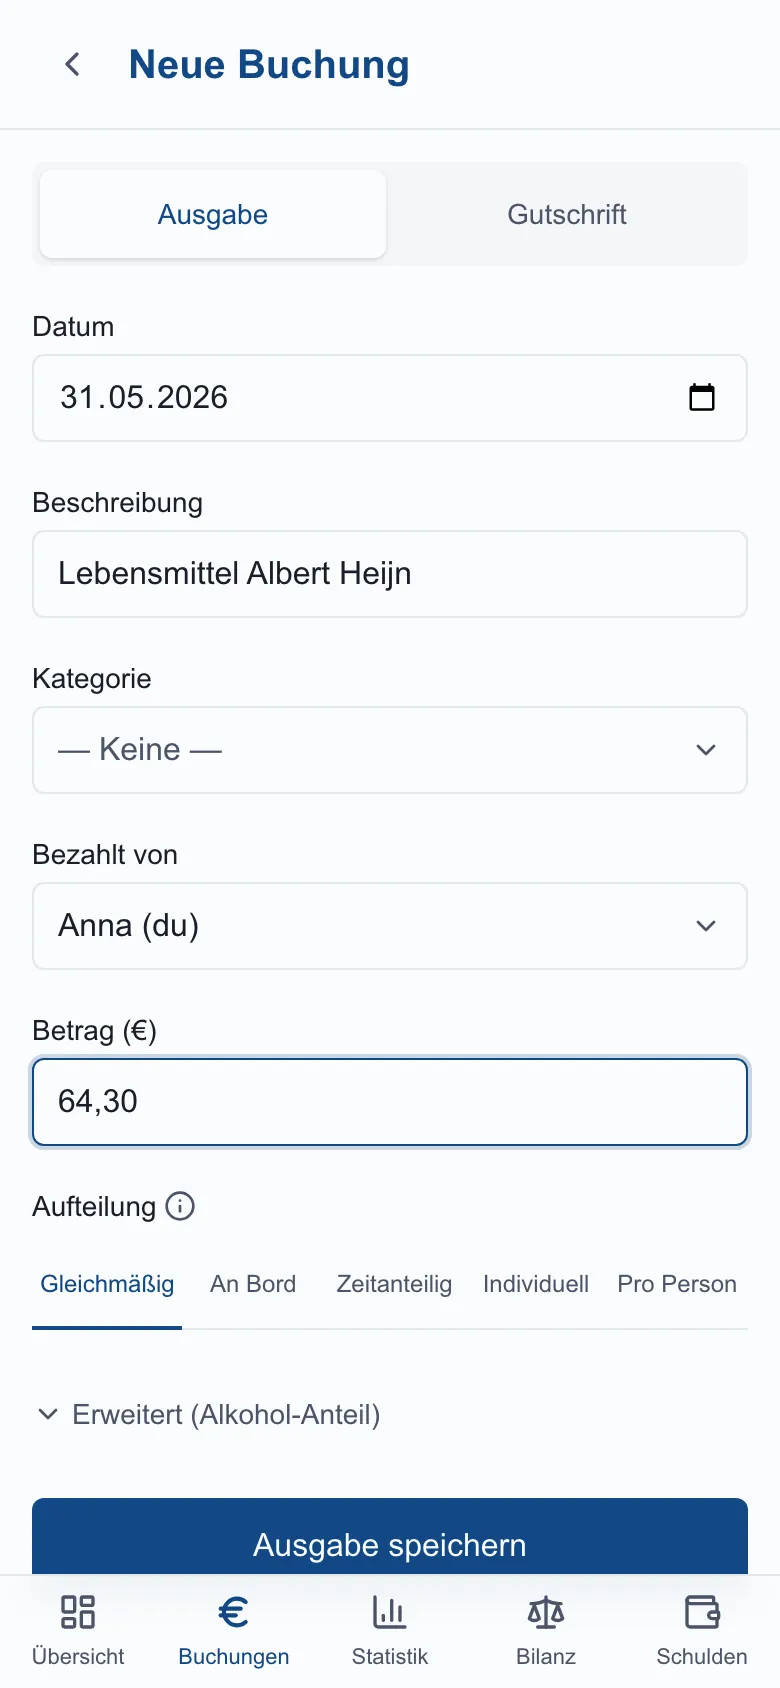
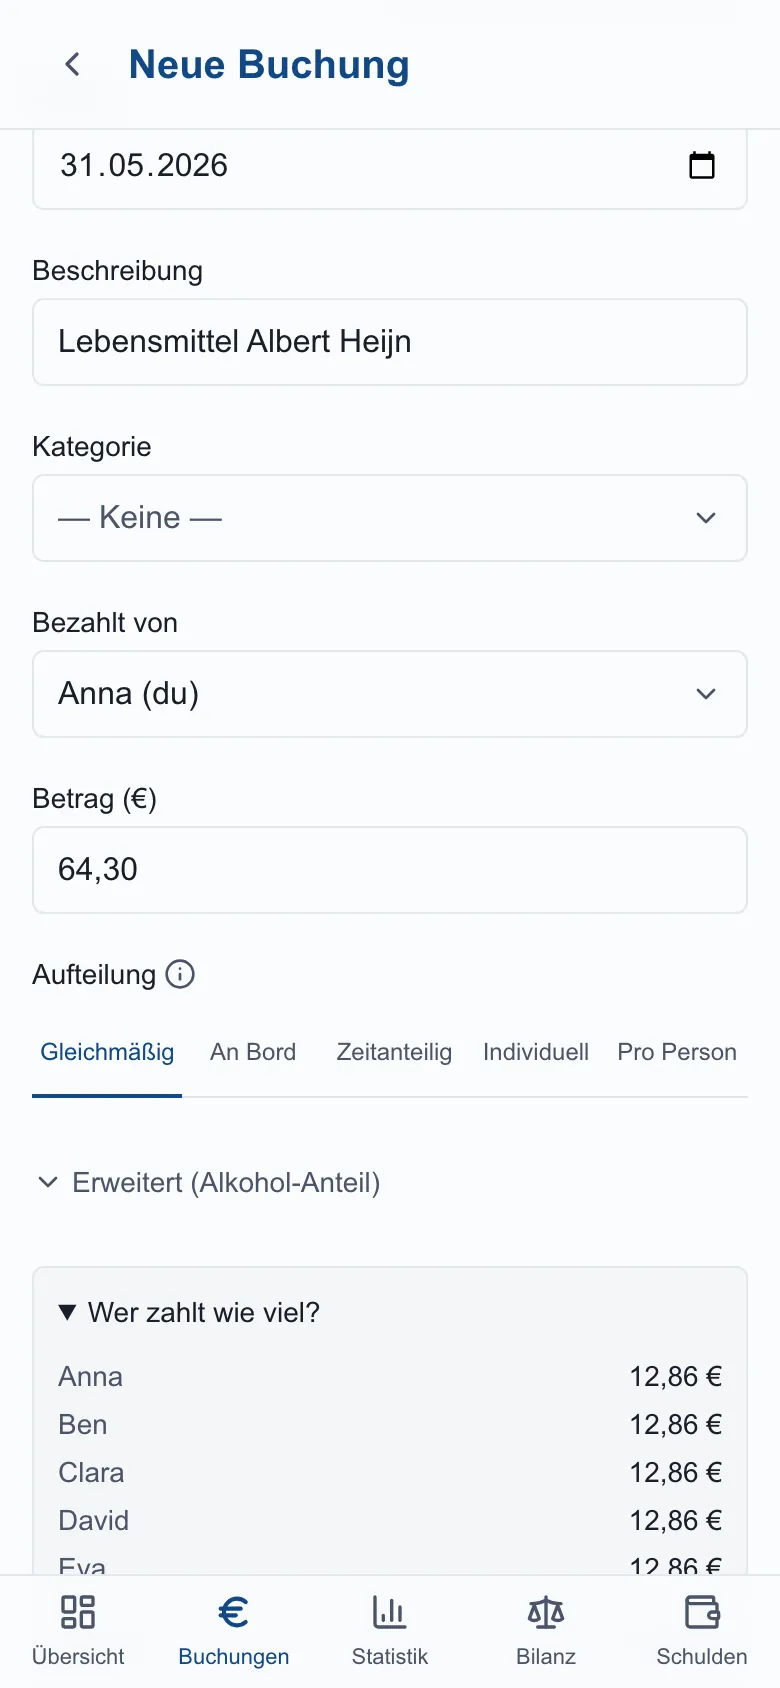
about: iOS-/Install-Hinweis entdoppeln + Buchungs-Screenshot mit Vorschau (#126)
- page.tsx: den Installations-Hinweis aus dem „Offline"-Feature entfernt; er
  steht bereits einmal am Anfang (Welcome-Feature) — einmal reicht.
- take-screenshots.ts: für 06-buchung-neu die Live-Vorschau „Wer zahlt wie
  viel?" aufklappen + in den Viewport scrollen, damit die Pro-Person-
  Aufschlüsselung sichtbar ist.
- 06-buchung-neu.webp neu generiert (zeigt jetzt die aufgeklappte Vorschau:
  64,30 € gleichmäßig auf 5 → je 12,86 €).

diff --git a/webapp/scripts/take-screenshots.ts b/webapp/scripts/take-screenshots.ts
@@ -270,6 +270,18 @@ async function main() {
   await page.locator('input[name="description"]').fill("Lebensmittel Albert Heijn").catch(() => {});
   await page.locator('input[name="amount"]').fill("64,30").catch(() => {});
   await page.waitForTimeout(300);
+  // Live-Vorschau „Wer zahlt wie viel?" aufklappen + in den Viewport scrollen,
+  // damit der Screenshot die Pro-Person-Aufschlüsselung tatsächlich zeigt
+  // (im UI default eingeklappt, sitzt am Ende des langen Formulars).
+  await page
+    .locator("details > summary", { hasText: "Wer zahlt wie viel" })
+    .click()
+    .catch(() => {});
+  await page
+    .locator('details:has(summary:has-text("Wer zahlt wie viel"))')
+    .scrollIntoViewIfNeeded()
+    .catch(() => {});
+  await page.waitForTimeout(300);
   await shot(page, "06-buchung-neu");
 
   console.log("→ Bilanz");

diff --git a/webapp/app/about/page.tsx b/webapp/app/about/page.tsx
@@ -402,9 +402,7 @@ const features: Feature[] = [
           Buchungen, die du ohne Internet eingibst, werden auf dem Gerät
           zwischengespeichert und automatisch übertragen, sobald wieder
           Empfang da ist. Ein dezenter Hinweis oben am Bildschirm zeigt,
-          dass du gerade offline arbeitest. Die App lässt sich auf dem
-          Smartphone wie eine echte App installieren — du brauchst nicht
-          jedes Mal den Browser aufmachen.
+          dass du gerade offline arbeitest.
         </p>
       </>
     ),
